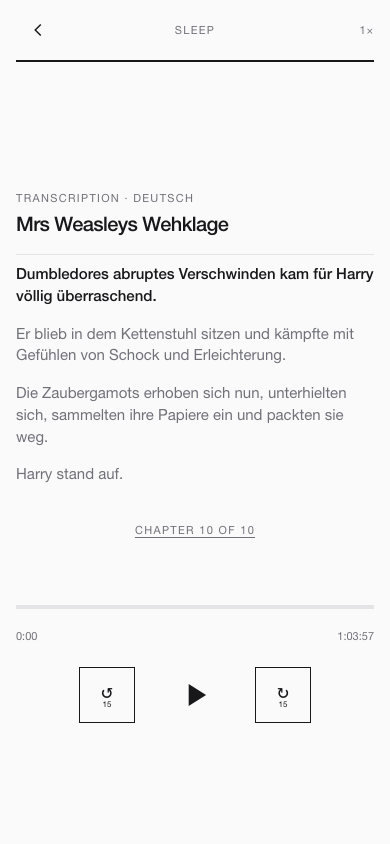
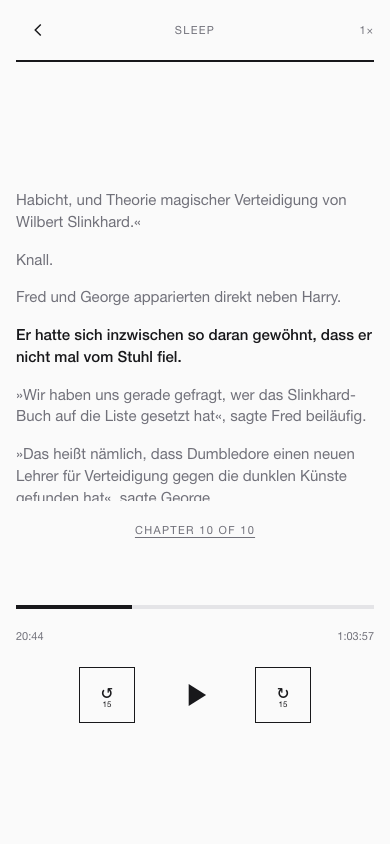
Split transcript dialogue into sentence rows

diff --git a/clam-web/README.md b/clam-web/README.md
@@ -198,9 +198,13 @@ The JSON shape is:
 }
 ```
 
-The generator aligns EPUB tokens to Whisper word timestamps, then uses the
-matched first/last word of each sentence as its cue. It does not display the
-Whisper text. Tiny/base ASR is only a clock; the EPUB is the transcript.
+The generator splits the EPUB into sentences first, aligns EPUB tokens to
+Whisper word timestamps, then uses the matched first/last word of each sentence
+as its cue. It does not display the Whisper text. Tiny/base ASR is only a
+clock; the EPUB is the transcript.
+
+The chapter-10 example currently has 565 sentence rows. Paragraph and dialogue
+boundaries are preserved; a single row never contains multiple sentences.
 
 In the Play screen, tapping the cover opens the transcript when the current
 chapter has a `subtitleUrl`. If it does not, the existing book description

diff --git a/clam-web/ui/README.md b/clam-web/ui/README.md
@@ -26,6 +26,6 @@ Sleep fade and Media Session are behaviour-only captures: the fade is the last
 20 seconds of the sleep timer / chapter, and Media Session updates chapter
 metadata, position and previous/next actions from the same player state.
 
-`transcript-390-after.png` is HP5 chapter 10 with EPUB text and an ASR-derived
-timeline; `transcript-fallback-390-after.png` is a chapter without a subtitle
+`transcript-390-after.png` is HP5 chapter 10 at the Fred/George passage:
+565 EPUB sentences, each a separate row, with the current sentence in ink; `transcript-fallback-390-after.png` is a chapter without a subtitle
 file, showing the normal book-description placeholder.
